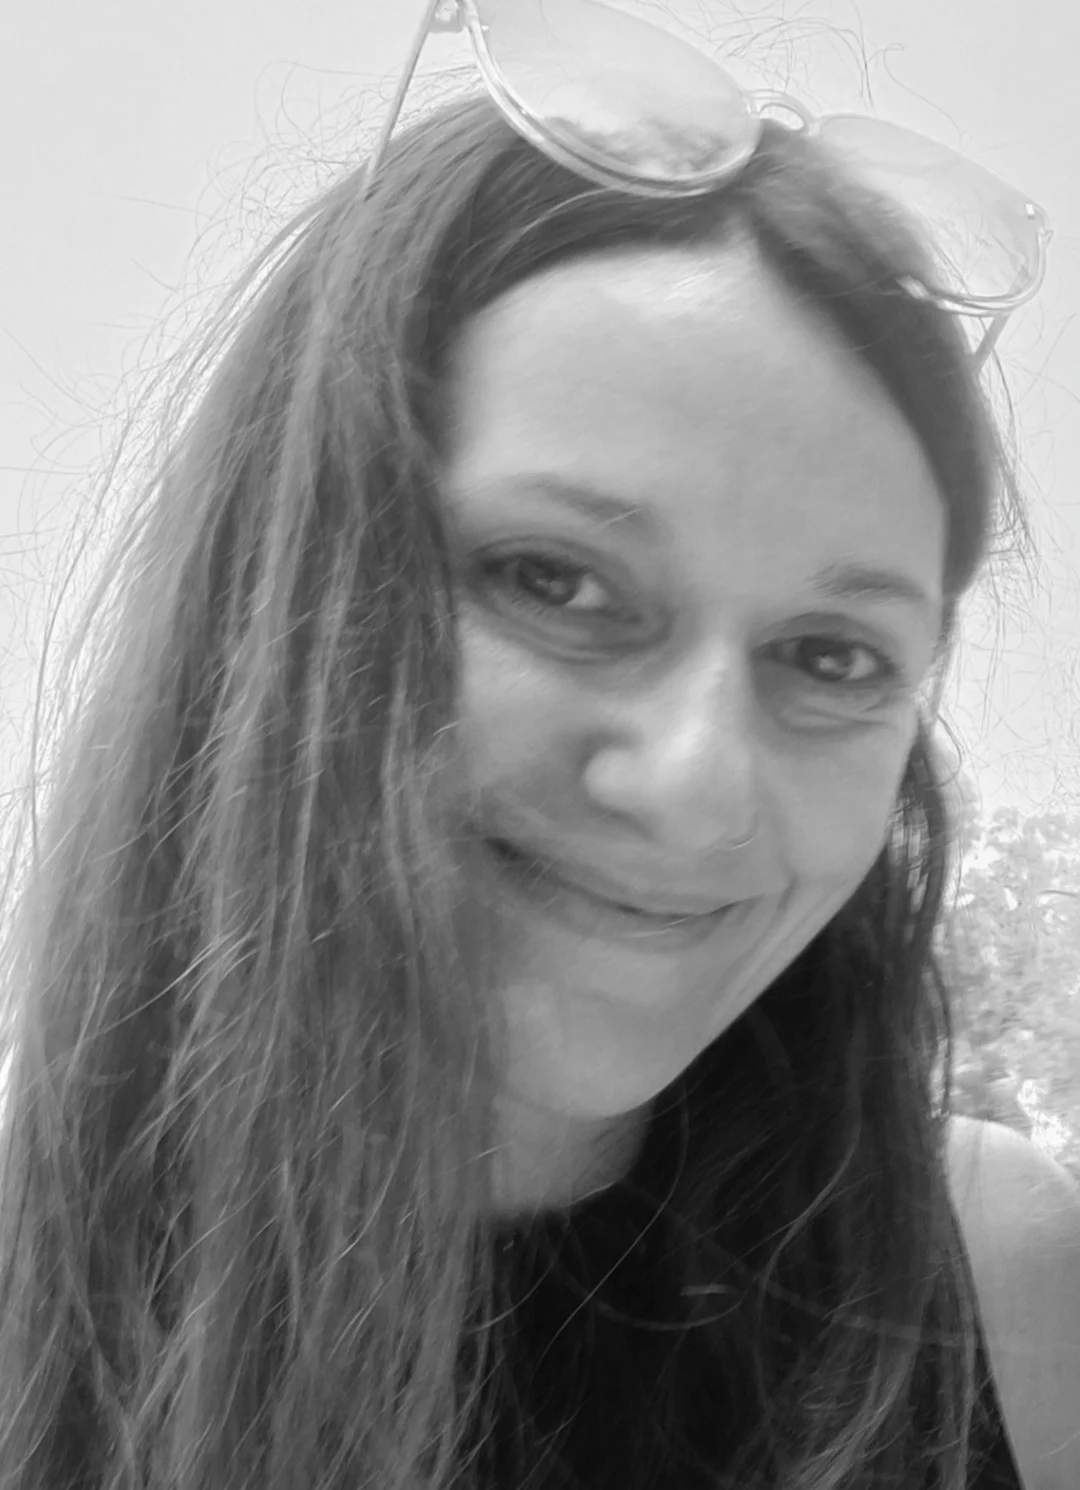
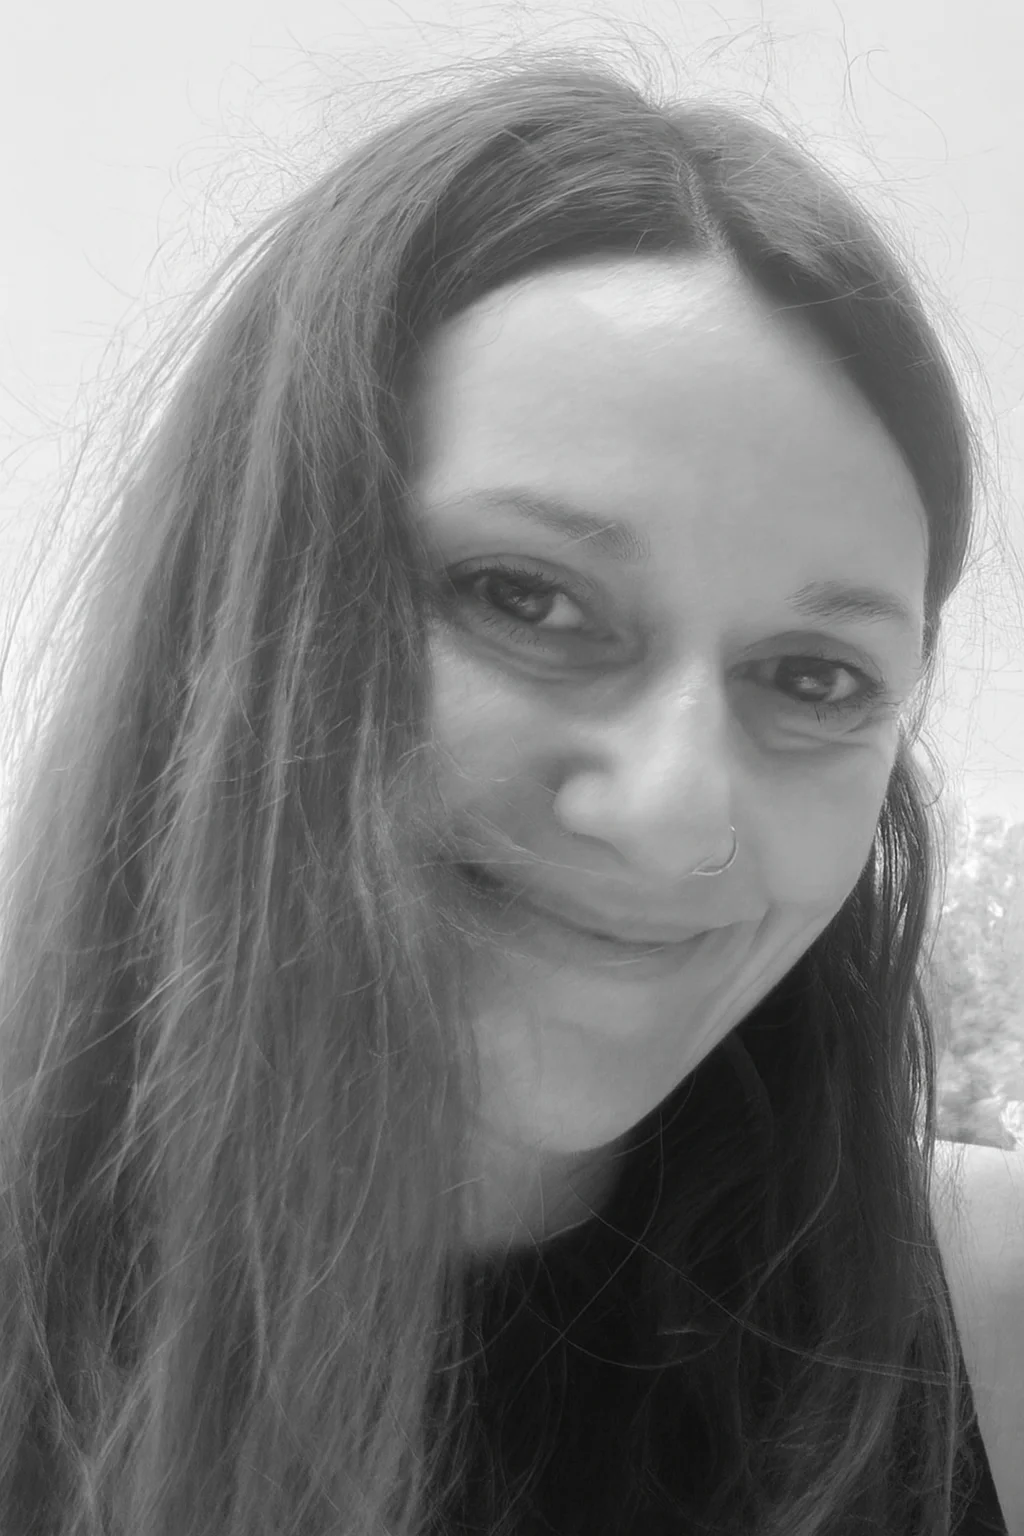
Changement photo profil

diff --git a/src/styles/main.css b/src/styles/main.css
@@ -1,0 +1,367 @@
+* {
+  margin: 0;
+  padding: 0;
+  box-sizing: border-box;
+}
+
+a {
+  text-decoration: none;
+  color: inherit;
+}
+
+ul, ol {
+  list-style: none;
+}
+
+img {
+  max-width: 100%;
+  height: auto;
+  display: block;
+}
+
+body {
+  font-family: "Poppins", sans-serif;
+  color: #000000;
+  margin: 0;
+  padding: 0;
+}
+
+h1, h2, h3 {
+  font-weight: 600;
+  margin-bottom: 16px;
+  font-size: 2rem;
+  text-align: center;
+  margin-bottom: 3rem;
+}
+
+a {
+  text-decoration: none;
+}
+
+.main-header {
+  display: flex;
+  justify-content: space-between;
+  align-items: center;
+  padding: 1rem 2rem;
+  background-color: white;
+  position: sticky;
+  top: 0;
+  z-index: 1000;
+}
+.main-header .nav-links {
+  display: flex;
+  gap: 2rem;
+  margin-left: auto;
+}
+.main-header .nav-link {
+  color: #000000;
+  text-decoration: none;
+  font-family: "Poppins", sans-serif;
+  font-weight: 500;
+}
+
+.main-footer {
+  padding: 2rem 1rem;
+  background-color: #000;
+  color: #fff;
+  text-align: center;
+}
+.main-footer p {
+  font-size: 0.95rem;
+  margin-top: 2rem;
+}
+.main-footer .footer-icons {
+  display: flex;
+  justify-content: center;
+  gap: 1.5rem;
+  font-size: 40px;
+}
+.main-footer .footer-icons a {
+  color: #fff;
+  transition: color 0.3s ease;
+}
+.main-footer .footer-icons a:hover {
+  color: #888888;
+}
+.main-footer .footer-icons a svg {
+  width: 40px;
+  height: 40px;
+}
+
+.hero {
+  position: relative;
+  z-index: 1;
+  display: flex;
+  align-items: flex-start;
+  gap: 2rem;
+  padding: 4rem;
+  color: #fff;
+  overflow: hidden;
+}
+.hero::before {
+  content: "";
+  position: absolute;
+  inset: 0;
+  background-image: url("/hero-bckg-min_10_11zon.webp");
+  background-size: cover;
+  background-position: center;
+  background-repeat: no-repeat;
+  z-index: -1;
+  opacity: 1;
+}
+.hero .hero-image-container {
+  max-width: 25%;
+  text-align: left;
+}
+.hero .hero-image-container .hero-image {
+  width: 100%;
+  max-width: 300px;
+  height: auto;
+  filter: grayscale(100%);
+  border-radius: 8px;
+}
+.hero .hero-content {
+  max-width: 60%;
+  padding: 2rem;
+  background-color: rgba(0, 0, 0, 0.5);
+  color: #fff;
+  border-radius: 8px;
+}
+.hero .hero-content .hero-title {
+  font-family: "Poppins", sans-serif;
+  font-size: 4.5rem;
+  font-weight: 600;
+  letter-spacing: 1px;
+  display: flex;
+  flex-wrap: wrap;
+  margin-bottom: 1rem;
+}
+.hero .hero-content .hero-title span {
+  opacity: 0;
+  transform: translateY(10px);
+  animation: fadeInUp 4s ease forwards;
+  display: inline-block;
+}
+.hero .hero-content .hero-tagline {
+  font-family: "Poppins", sans-serif;
+  font-size: 1.25rem;
+  font-weight: 300;
+  margin-bottom: 2rem;
+  line-height: 1.4;
+}
+.hero .hero-content .about-text {
+  margin-top: 2rem;
+  margin-bottom: 2rem;
+  font-size: 1rem;
+  line-height: 1.5;
+  max-width: 800px;
+  color: #fff;
+}
+.hero .hero-content .hero-button {
+  display: inline-block;
+  font-family: "Poppins", sans-serif;
+  font-size: 1rem;
+  font-weight: 500;
+  color: #fff;
+  text-decoration: none;
+  border: 2px solid #fff;
+  padding: 0.75rem 1.5rem;
+  margin-right: 1rem;
+  margin-bottom: 1rem;
+  border-radius: 4px;
+  transition: background-color 0.3s ease, color 0.3s ease;
+}
+.hero .hero-content .hero-button:hover {
+  background-color: #fff;
+  color: #000;
+}
+
+@keyframes fadeInUp {
+  to {
+    opacity: 1;
+    transform: translateY(0);
+  }
+}
+@media (max-width: 768px) {
+  .hero {
+    flex-direction: column;
+    align-items: center;
+    text-align: center;
+    padding: 2rem;
+  }
+  .hero .hero-image-container {
+    max-width: 100%;
+    text-align: center;
+  }
+  .hero .hero-image-container .hero-image {
+    width: 80%;
+    margin: 0 auto;
+  }
+  .hero .hero-content {
+    max-width: 100%;
+    padding: 1rem;
+  }
+  .hero .hero-content .hero-title {
+    font-size: 2rem;
+    justify-content: center;
+  }
+  .hero .hero-content .hero-tagline {
+    font-size: 1rem;
+    margin-bottom: 1.5rem;
+    text-align: center;
+  }
+  .hero .hero-content .hero-button {
+    margin-right: 0;
+    width: auto;
+    margin-bottom: 1rem;
+  }
+}
+.project-card {
+  width: 100%;
+  max-width: 100%;
+  margin: 1rem auto;
+  background-color: #ffffff;
+  border-radius: 20px;
+  overflow: hidden;
+  box-shadow: 0 4px 10px rgba(0, 0, 0, 0.05);
+  transition: transform 0.2s ease;
+}
+.project-card:hover {
+  transform: translateY(-5px);
+}
+.project-card .project-image {
+  width: 100%;
+  height: 220px;
+  -o-object-fit: cover;
+     object-fit: cover;
+  display: block;
+  -o-object-position: 50% -2%;
+     object-position: 50% -2%;
+  border-radius: 0.5rem;
+}
+@media (max-width: 768px) {
+  .project-card .project-image {
+    max-width: 100%;
+    height: 150px;
+  }
+}
+@media (max-width: 480px) {
+  .project-card .project-image {
+    max-width: 100%;
+    height: 100px;
+  }
+}
+.project-card .project-info {
+  padding: 1rem 1.25rem;
+}
+.project-card .project-info h3 {
+  margin: 0.5rem 0 1.25rem;
+  font-size: 1.2rem;
+  font-weight: 600;
+}
+.project-card .project-info .project-tech {
+  display: flex;
+  flex-wrap: wrap;
+  gap: 0.5rem;
+  margin: 1.5rem 0;
+  align-items: center;
+}
+.project-card .project-info .project-tech .tech-logo {
+  width: 50px;
+  height: 50px;
+  -o-object-fit: contain;
+     object-fit: contain;
+}
+@media (max-width: 768px) {
+  .project-card .project-info .project-tech .tech-logo {
+    width: 1.8rem;
+    height: auto;
+  }
+}
+@media (max-width: 480px) {
+  .project-card .project-info .project-tech .tech-logo {
+    width: 1.5rem;
+    height: auto;
+  }
+}
+.project-card .project-info .project-description {
+  font-size: 0.95rem;
+  color: #575757;
+  margin-top: 0.5rem;
+}
+.project-card .project-info .project-links {
+  margin-top: 1rem;
+  display: flex;
+  gap: 1rem;
+}
+.project-card .project-info .project-links a {
+  font-size: 0.9rem;
+  color: #000000;
+  text-decoration: none;
+}
+.project-card .project-info .project-links a:hover {
+  color: #888888;
+}
+
+.skills-section {
+  padding: 4rem 2rem;
+}
+.skills-section h2 {
+  text-align: center;
+  font-size: 2rem;
+  margin-bottom: 3rem;
+}
+.skills-section .skills-grid {
+  display: grid;
+  gap: 2rem;
+  grid-template-columns: repeat(auto-fit, minmax(280px, 1fr));
+}
+.skills-section .skill .skill-header {
+  display: flex;
+  align-items: center;
+  justify-content: space-between;
+  margin-bottom: 0.5rem;
+}
+.skills-section .skill .skill-header .icon {
+  font-size: 1.5rem;
+}
+.skills-section .skill .skill-header .label {
+  flex-grow: 1;
+  margin: 0 1rem;
+  font-weight: 500;
+}
+.skills-section .skill .skill-header .percent {
+  font-weight: bold;
+}
+.skills-section .skill .progress-bar {
+  width: 100%;
+  height: 10px;
+  background-color: #eee;
+  border-radius: 10px;
+  overflow: hidden;
+}
+.skills-section .skill .progress-bar .progress-fill {
+  height: 100%;
+  background: linear-gradient(to right, #051c2c, #00497a, #00baff);
+  transition: width 0.4s ease-in-out;
+}
+
+.projects-section {
+  padding: 4rem 2rem;
+  background: #f6f6f6;
+}
+.projects-section h2 {
+  font-size: 2rem;
+  text-align: center;
+  margin-bottom: 3rem;
+}
+.projects-section .projects-grid {
+  display: grid;
+  gap: 2rem;
+  grid-template-columns: repeat(2, 1fr);
+}
+@media (max-width: 768px) {
+  .projects-section .projects-grid {
+    grid-template-columns: 1fr;
+  }
+}/*# sourceMappingURL=main.css.map */
